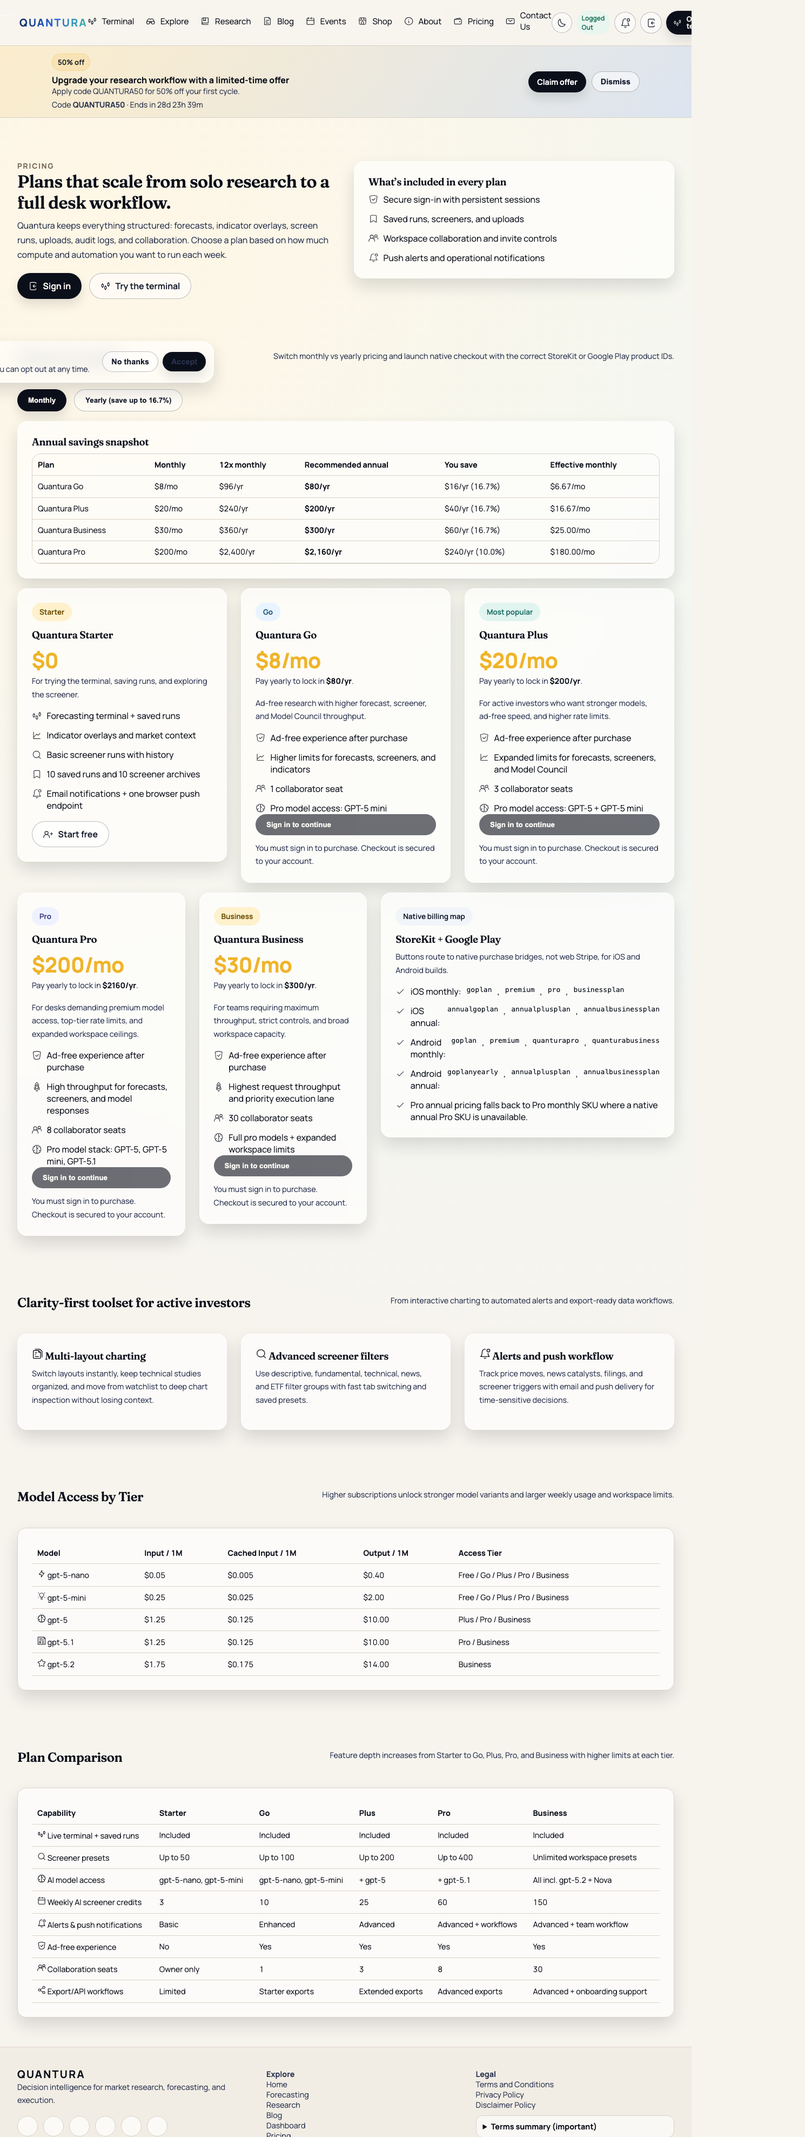
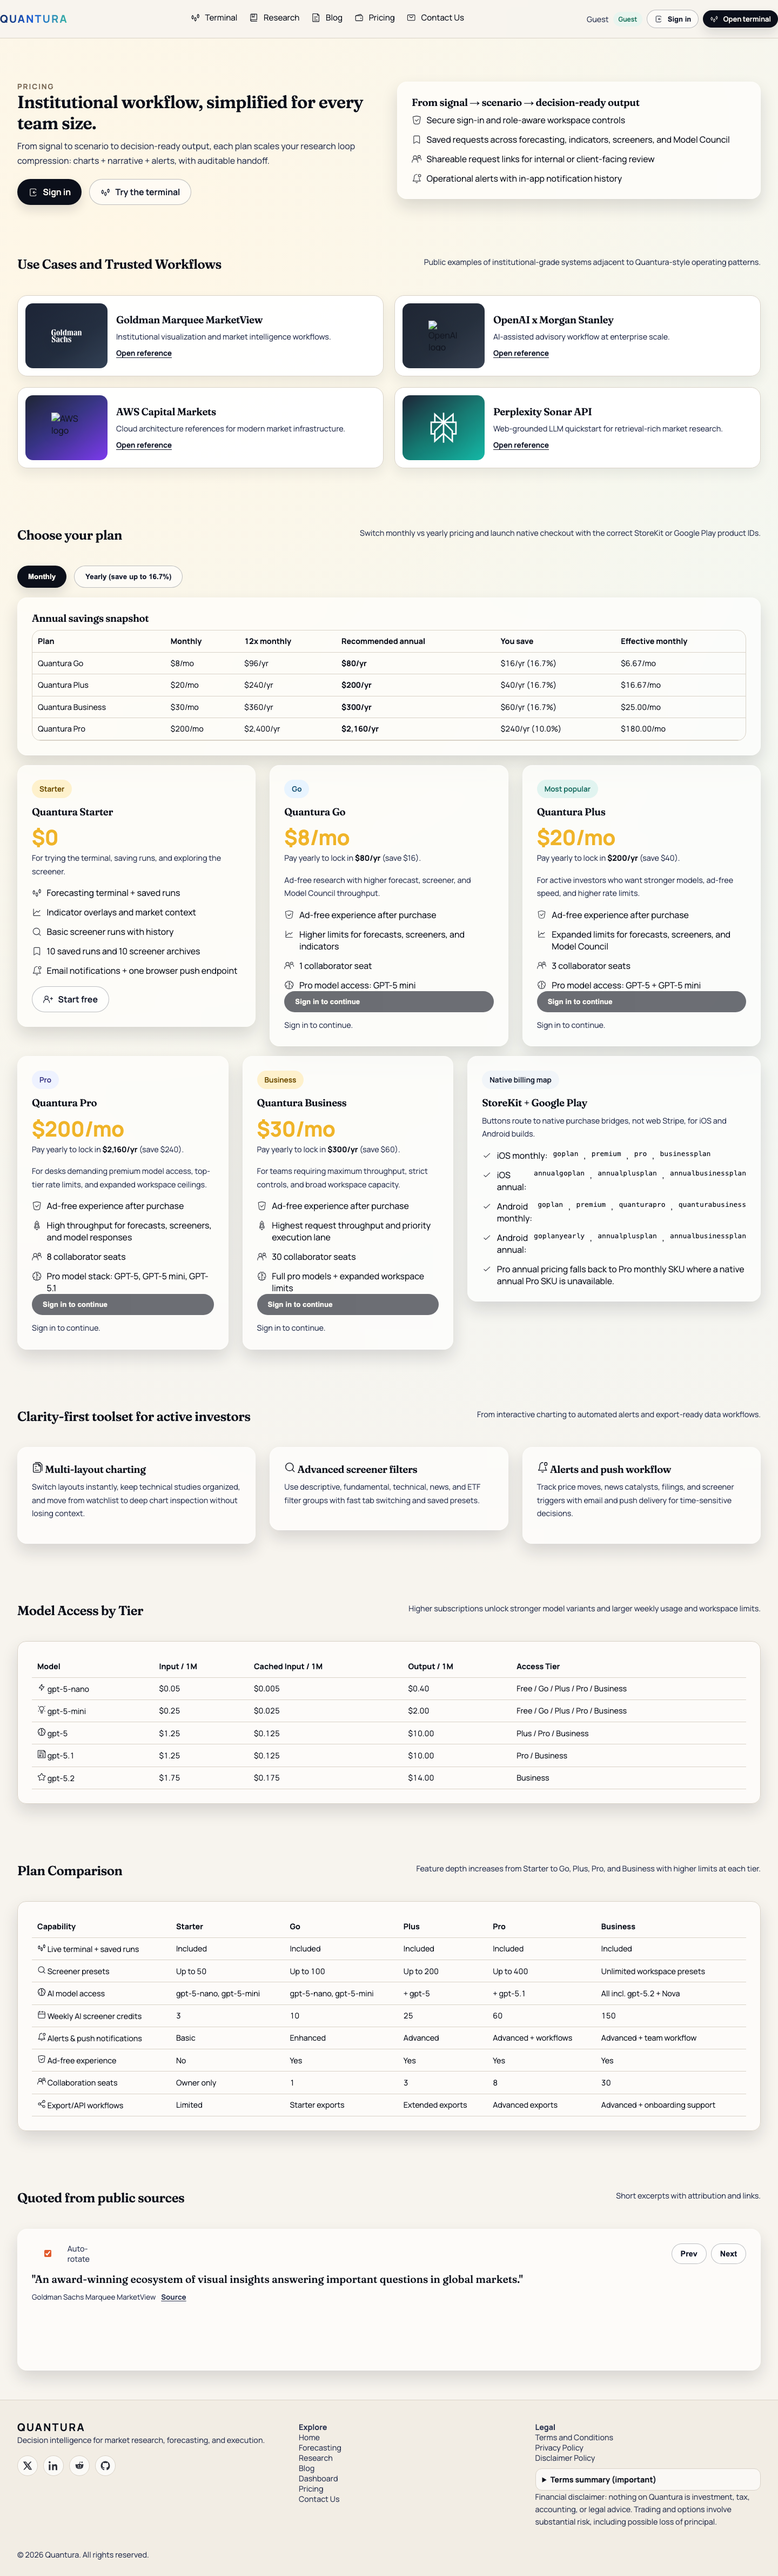
Refresh QA evidence and add marketing/my-requests screenshots

diff --git a/quantura_site/docs/qa-prompt7-deliverables.md b/quantura_site/docs/qa-prompt7-deliverables.md
@@ -4,7 +4,8 @@ Date: 2026-03-03 (America/New_York)
 Environment:
 - Backend deployed with `gcloud functions deploy` (Gen2)
 - Frontend deployed with `firebase deploy --only hosting`
-- Runtime validation against `https://quantura.studio`
+- Deployed runtime validation: `https://quantura-e2e3d.web.app`
+- Local template preview for page-level HTML updates: `python3 -m http.server` against merged `public + pages`
 
 ## 1) Native ads only on iOS/Android
 Status: PASS (web hidden), native verification ready for device QA
@@ -40,7 +41,7 @@ Checks:
 - UI panels added under Forecasting/Indicators/Model Council/Screener contexts.
 
 Evidence (UI + code path):
-- Forecasting/Screener layouts: `docs/screenshots/deliverables/forecasting-terminal-web.png`, `docs/screenshots/deliverables/screener-my-requests-web.png`
+- Forecasting/Screener layouts with My Requests cards (template preview): `docs/screenshots/deliverables/forecasting-terminal-web.png`, `docs/screenshots/deliverables/screener-my-requests-web.png`
 - Backend handlers: `functions_explore/src/index.ts` (`/my-requests*` routes)
 
 ## 4) Polymarket cards formatting (Gamma-only)
@@ -53,7 +54,7 @@ Checks:
 - New endpoint added: `/api/polymarket/price`.
 
 Evidence:
-- Predictions panel screenshot: `docs/screenshots/deliverables/predictions-panel-web.png`
+- Predictions panel screenshot (deployed runtime): `docs/screenshots/deliverables/predictions-panel-web.png`
 - Rewrites + endpoints in code:
   - `firebase.json`
   - `functions_explore/src/index.ts`
@@ -93,3 +94,16 @@ Checks:
 Evidence:
 - `deploy.sh`
 - `DEPLOY.md`
+
+## 8) Marketing copy + use cases + quote carousel
+Status: PASS
+
+Checks:
+- Homepage/Pricing/Shop copy updated with institutional messaging.
+- Use-case cards added with required external links.
+- Quote carousel script added and wired.
+
+Evidence:
+- Homepage marketing sections: `docs/screenshots/deliverables/home-marketing-web.png`
+- Pricing page updated copy/cards/tables: `docs/screenshots/deliverables/pricing-page-web.png`
+- Carousel script: `public/marketing-carousel.js`
